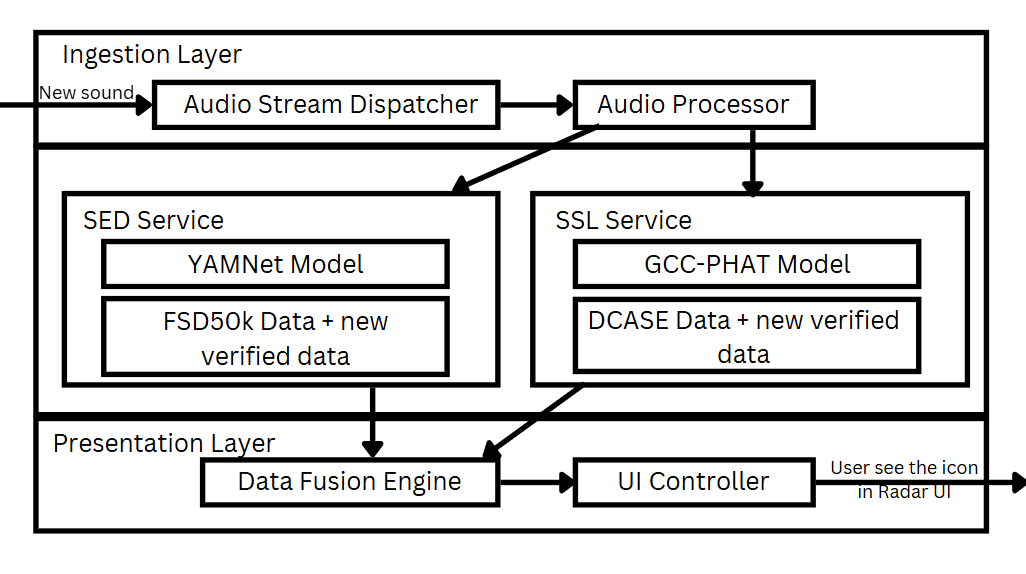
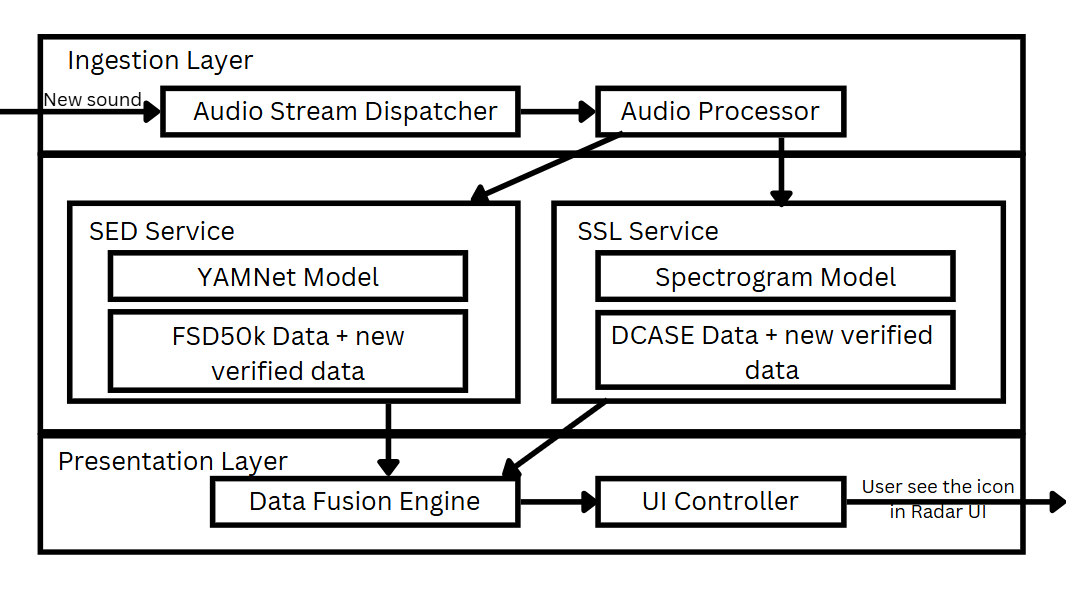
fix system architecture to Spectrogram IPD for SSL service

Changed region(s): [[0.0, 0.0296, 1.0, 0.9477]]

diff --git a/body/softwarearchitecture.tex b/body/softwarearchitecture.tex
@@ -10,7 +10,7 @@ Unlike traditional sequential pipelines, this design decouples the sound capture
 As illustrated in Figure~\ref{fig:sys-arch}, the architecture consists of three primary layers:
 \begin{itemize}
     \item \textbf{Ingestion Layer:} The \textit{Audio Stream Dispatcher} captures raw PCM data from the microphone array and broadcasts it to independent buffers which also has \textit{Audio Processor} to transform data before it reaches service layer.
-    \item \textbf{Service Layer:} Two concurrent services—the \textit{SSL Service} (calculating distance via GCC-PHAT) and the \textit{SED Service} (identifying sound types via YAMNet)—process the same audio window simultaneously.
+    \item \textbf{Service Layer:} Two concurrent services—the \textit{SSL Service} (calculating distance via Spectrogram and IPD) and the \textit{SED Service} (identifying sound types via YAMNet)—process the same audio window simultaneously.
     \item \textbf{Presentation Layer:} The \textit{Data Fusion Engine} synchronizes the outputs based on high-resolution timestamps and updates the \textit{Radar UI} for the user.
 \end{itemize}
 
@@ -30,7 +30,7 @@ The sequence of interactions for a typical sound event—such as a door knock—
 \begin{enumerate}
     \item The \textit{Audio Dispatcher} pushes a 1024-sample window to the \textit{Audio Processor}.
     \item The \textit{Audio Processor} prepares the data to match each service format then sends to \textit{Service Layer}.
-    \item The \textit{SSL Service} performs cross-correlation to determine the arrival time difference, classifying the result as (Very far, Far, Medium, Close, Very close) to the $D$.
+    \item The \textit{SSL Service} extracts spectrogram and Interaural Phase Difference (IPD) features from the stereo audio stream and classifies the sound proximity into discrete categories (\textit{Near, Medium, Far}) represented as $D$.
     \item Concurrently, the \textit{SED Service} generates a classification label $L$ and a confidence score $C$.
     \item The \textit{Data Fusion Engine} validates that $C > 0.5$ and pairs $D$ with $L$.
     \item The \textit{UI Controller} maps these polar coordinates to a visual icon on the radar view.
@@ -57,20 +57,23 @@ We implemented a quantized version of YAMNet, a pre-trained Deep Neural Network 
 \textbf{Design Decision:} YAMNet was selected over traditional CNNs due to its use of \textit{depthwise separable convolutions}, which significantly reduces the floating-point operations (FLOPs) required per inference. We utilized TensorFlow Lite (TFLite) 8-bit quantization to ensure the model runs on the device’s mobile hardware without exceeding thermal limits, maintaining a low-latency "Sound-to-Insight" pipeline.
 
 \subsubsection{Sound Source Localization (SSL) Model}
-For the SSL service, we implemented a \textit{Generalized Cross-Correlation with Phase Transform} (GCC-PHAT) model. While traditionally an algorithm, it is utilized here as a classification model to estimate the proximity and direction of sound sources from the equation below.
 
-\begin{equation}
-    R_{x_1x_2}^{PHAT}(\tau) = \int_{-\infty}^{\infty} \frac{X_1(f) X_2^*(f)}{|X_1(f) X_2^*(f)|} e^{j2\pi f\tau} df
-\end{equation}
+For the SSL service, we implemented a lightweight spectrogram-based localization model utilizing Interaural Phase Difference (IPD) features extracted from stereo microphone input. 
+The model estimates the relative proximity of sound sources by analyzing phase differences and frequency-domain spatial characteristics between audio channels.
 
-\textbf{Design Decision:} The PHAT weighting functions as a whitening filter, effectively stripping away the magnitude information and focusing solely on the phase difference. 
-This makes the model highly resilient to varying volumes and background noise levels. To minimize "Time-to-Insight" for the user, the model's raw Time Difference of Arrival (TDOA) outputs are mapped into five discrete distance categories: \textit{Very Close, Close, Medium, Far,} and \textit{Very Far}. 
-This mapping is calibrated using benchmarks from the DCASE dataset to ensure consistency across different mobile hardware configurations.
+The preprocessing pipeline converts stereo audio streams into Log-Mel Spectrogram representations while simultaneously extracting IPD features across frequency bins. 
+These combined features are then used to classify sound proximity into three discrete categories: \textit{Near}, \textit{Medium}, and \textit{Far}.
 
+\textbf{Design Decision:} 
+The spectrogram-IPD approach was selected over traditional Time Difference of Arrival (TDOA) and GCC-PHAT methods due to its improved robustness in noisy and reverberant indoor environments. 
+By leveraging frequency-domain spatial representations, the model can better preserve directional cues while remaining computationally lightweight enough for real-time mobile inference.
+
+To maintain low system latency and improve user interpretability, the localization output is simplified into categorical proximity zones rather than continuous spatial coordinates. 
+This reduces computational overhead while still providing meaningful environmental awareness for accessibility-focused interaction.
 \subsection{Evaluation}
 To measure the success of the AI components, we use the following metrics:
 \begin{itemize}
     \item \textbf{Mean Average Precision (mAP):} To evaluate the classification accuracy of the SED service across filtered classes. We define the success criteria to be at least 0.75 to balance the false positive result.
-    \item \textbf{Categorical Distance Accuracy:} Since the \textbf{SSL Service} maps proximity into five discrete zones (\textit{Very Far, Far, Medium, Close, Very Close}), we evaluate performance using a \textbf{Confusion Matrix}. The goal is to minimize "Critical Errors," defined as the system misidentifying a "Near" sound as "Far" which could pose a safety risk to the user. Therefore, we define that it can occur less than 10%.
+    \item \textbf{Categorical Distance Accuracy:} Since the \textbf{SSL Service} maps proximity into three discrete zones (\textit{Far, Medium, and Near}), we evaluate performance using a \textbf{Confusion Matrix}. The goal is to minimize "Critical Errors," defined as the system misidentifying a "Near" sound as "Far" which could pose a safety risk to the user. Therefore, we define that it can occur less than 10%.
     \item \textbf{System Latency:} To maintain "social synchronicity," the total time from microphone input to UI update must be minimal. We set a target threshold of $<500$ms for the 90th percentile (P90) of latency. Measuring the 90\% quantile ensures that the user experience remains smooth and predictable, even during peak computational loads on the mobile hardware.
 \end{itemize}
